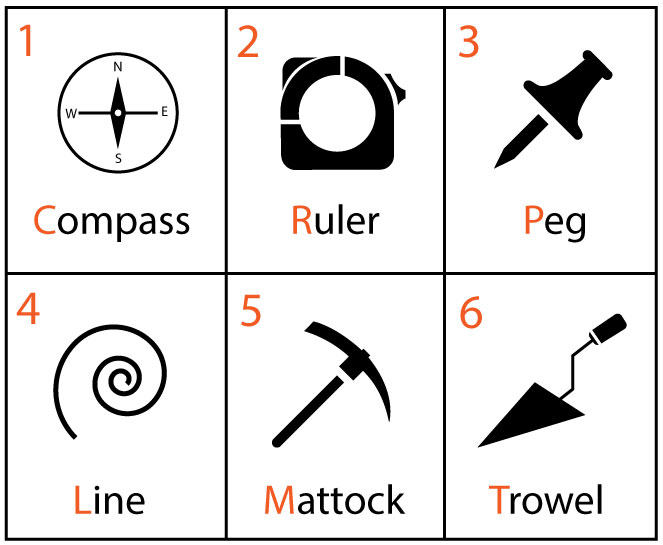
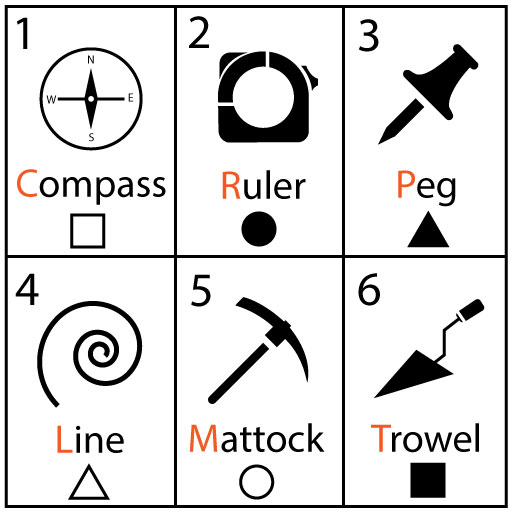
add another password hint

diff --git a/Finding-AVA/index.html b/Finding-AVA/index.html
@@ -31,6 +31,7 @@
       <img id="sky" src="image/sky.jpg">
       <img id="passwordhint" src="image/passwordhint.jpg">
       <img id="dighint" src="image/dighint.jpg">
+      <img id="lockback" src="image/letterlockback.jpg">
       <img id="skeleton" src="image/skeleton.jpg">
       <img id="bodyframe" src="image/body.jpg">
       <img id="bodyfinish" src="image/bodyfinish.jpg">
@@ -254,7 +255,7 @@
       <a-plane id="helpinfo1" color="#333" height="1.2" width="1" position="0 2.7 -0.5" metalness="0.5" visible="false">
         <a-text value="Help Information" color="orange" width="1.37" font="dejavu" position="-0.43 0.5 0"></a-text>
         <a-text value="This level will teach you about the tools and process of archaeological excavation. You need to use the information on the notebook pages to unlock the tool box. These are hidden beneath the tent." color="#FFF" width="0.9" font="dejavu" position="-0.43 0.21 0" wrap-count="34" ></a-text>
-        <a-text value="Pay close attention to the numbers beside the tools. These will help you solve the sequence of the tool box password. They also tell you the order to use the tools. If you don’t follow the order, it won’t work!" color="#FFF" width="0.9" font="dejavu" position="-0.43 -0.2 0" wrap-count="34" ></a-text>
+        <a-text value="Pay close attention to the numbers and little patterns beside the tools. Patterns will help you solve the sequence of the tool box password, numbers will indicate the using order of tools. If you don’t follow the order, it won’t work!" color="#FFF" width="0.9" font="dejavu" position="-0.43 -0.2 0" wrap-count="34" ></a-text>
         <!-- back button -->
         <a-circle radius="0.05" text="value:<; width:1.5; align:center" color="#000" position="0.5 0.49 0.01"
         event-set__1="_event: mouseenter; color:orange"
@@ -297,21 +298,21 @@
       <a-entity id="toolbox-open-model" obj-model="obj: #toolbox-open-obj; mtl: #toolbox-open-mtl" position="-1.88 0.25 -2.18" visible="false"></a-entity>
 
       <!-- alphabet lock on the toolbox -->
-      <a-plane color="#CCC" width="0.2" height="0.15" position="-1.88 0.38 -1.91"></a-plane>
-      <a-plane id="letterlock" color="#CCC" width="0.2" height="0.15" position="-1.88 0.38 -1.91">
-        <a-text id="locktext" color="#000" value="Alphabet Lock" font="dejavu" width="0.3" align="center" position="0 0.06 0"></a-text>
+      <a-plane width="0.2" height="0.2" position="-1.88 0.38 -1.91"></a-plane>
+      <a-plane id="letterlock" color="#CCC" width="0.2" height="0.2" position="-1.88 0.38 -1.9" src="#lockback">
+        <a-text id="locktext" color="#000" value="Alphabet Lock" font="dejavu" width="0.3" align="center" position="0 0.08 0"></a-text>
         <!-- lock digits -->
-        <a-entity id="lockdigits" layout="layout: line; margin: 0.03" position="-0.075 0.01 0.001">
+        <a-entity id="lockdigits" layout="layout: line; margin: 0.03" position="-0.075 0.02 0.001">
           <!-- first digit -->
           <a-plane color="#000" width="0.02" height="0.03">
             <a-entity geometry="primitive: plane; width: 0.02; height: 0.02" position="0 0.025 0.001" material="color:#FFF" text="value:+; color:#555; align:center; width:0.3" letterplus="target:#firstdigit"></a-entity>
-            <a-text id="firstdigit" value="A" font="dejavu" color="#FFF" align="center" width="0.3"></a-text>
+            <a-text id="firstdigit" value="N" font="dejavu" color="#FFF" align="center" width="0.3"></a-text>
             <a-entity geometry="primitive: plane; width: 0.02; height: 0.02" position="0 -0.025 0.001" material="color:#FFF" text="value:-; color:#555; align:center; width:0.3" letterminus="target:#firstdigit"></a-entity>
           </a-plane>
           <!-- second digit -->
           <a-plane color="#000" width="0.02" height="0.03">
             <a-entity geometry="primitive: plane; width: 0.02; height: 0.02" position="0 0.025 0.001" material="color:#FFF" text="value:+; color:#555; align:center; width:0.3" letterplus="target:#seconddigit"></a-entity>
-            <a-text id="seconddigit" value="T" font="dejavu" color="#FFF" align="center" width="0.3"></a-text>
+            <a-text id="seconddigit" value="Y" font="dejavu" color="#FFF" align="center" width="0.3"></a-text>
             <a-entity geometry="primitive: plane; width: 0.02; height: 0.02" position="0 -0.025 0.001" material="color:#FFF" text="value:-; color:#555; align:center; width:0.3" letterminus="target:#seconddigit"></a-entity>
           </a-plane>
           <!-- third digit -->
@@ -323,7 +324,7 @@
           <!-- fourth digit -->
           <a-plane color="#000" width="0.02" height="0.03">
             <a-entity geometry="primitive: plane; width: 0.02; height: 0.02" position="0 0.025 0.001" material="color:#FFF" text="value:+; color:#555; align:center; width:0.3" letterplus="target:#fourthdigit"></a-entity>
-            <a-text id="fourthdigit" value="M" font="dejavu" color="#FFF" align="center" width="0.3"></a-text>
+            <a-text id="fourthdigit" value="A" font="dejavu" color="#FFF" align="center" width="0.3"></a-text>
             <a-entity geometry="primitive: plane; width: 0.02; height: 0.02" position="0 -0.025 0.001" material="color:#FFF" text="value:-; color:#555; align:center; width:0.3" letterminus="target:#fourthdigit"></a-entity>
           </a-plane>
           <!-- fifth digit -->
@@ -335,12 +336,12 @@
           <!-- sixth digit -->
           <a-plane color="#000" width="0.02" height="0.03">
             <a-entity geometry="primitive: plane; width: 0.02; height: 0.02" position="0 0.025 0.001" material="color:#FFF" text="value:+; color:#555; align:center; width:0.3" letterplus="target:#sixthdigit"></a-entity>
-            <a-text id="sixthdigit" value="Y" font="dejavu" color="#FFF" align="center" width="0.3"></a-text>
+            <a-text id="sixthdigit" value="R" font="dejavu" color="#FFF" align="center" width="0.3"></a-text>
             <a-entity geometry="primitive: plane; width: 0.02; height: 0.02" position="0 -0.025 0.001" material="color:#FFF" text="value:-; color:#555; align:center; width:0.3" letterminus="target:#sixthdigit"></a-entity>
           </a-plane>
         </a-entity>
         <!-- open lock button -->
-        <a-plane id="openlock" color="#555" width="0.08" height="0.03" position="0 -0.05 0.001"
+        <a-plane id="openlock" color="#555" width="0.08" height="0.03" position="0 -0.07 0.001"
         text="value:OPEN; color:#FFF; width:0.3; font:dejavu; align:center" 
         event-set__1="_event: mouseenter; text.color:orange" 
         event-set__2="_event: mouseleave; text.color:#FFF" openlock>
@@ -351,11 +352,11 @@
       <a-box id="notebook-model" color="#362F19" width="0.3" height="0.05" depth="0.5" position="-2.3 0.025 -1.55">
       </a-box>
       <a-text color="#FFF" value="NOTEBOOK" font="dejavu" width="0.8" align="center" position="-2.3 0.06 -1.64" rotation="-90 0 0"></a-text>
-      <a-plane src="#passwordhint" width="0.35" height="0.25" position="-2 0.01 -1.5" shader="flat" rotation="-90 60 0" scale="1 1 1" scalesomething="scaleto:4 4 4;positionto:0 2.5 -0.75; pinposition:-2.7 2.5 -1.2; pinrotation:0 60 0" clickable="target:#hint1light">
-        <a-light id="hint1light" type="point" intensity="0.8" decay="0.8" distance="0.6" position="0 0 0.3" visible="false"></a-light>
+      <a-plane src="#passwordhint" width="0.35" height="0.35" position="-2 0.01 -1.5" shader="flat" rotation="-90 60 0" scale="1 1 1" scalesomething="scaleto:4 4 4;positionto:0 2.5 -0.75; pinposition:-2.7 2.5 -1.2; pinrotation:0 60 0" clickable="target:#hint1light">
+        <a-light id="hint1light" type="point" intensity="1" decay="0.8" distance="0.6" position="0 0 0.3" visible="false"></a-light>
       </a-plane>
-      <a-plane src="#dighint" width="0.35" height="0.25" position="-1.6 0.01 -1.5" shader="flat" rotation="-90 -75 0" scale="1 1 1" scalesomething="scaleto:4 4 4;positionto:0 2.5 -0.75; pinposition:2.7 2.5 -1.2; pinrotation:0 -60 0" clickable="target:#hint2light">
-        <a-light id="hint2light" type="point" intensity="0.8" decay="0.8" distance="0.6" position="0 0 0.3" visible="false"></a-light>
+      <a-plane src="#dighint" width="0.35" height="0.35" position="-1.6 0.01 -1.5" shader="flat" rotation="-90 -75 0" scale="1 1 1" scalesomething="scaleto:4 4 4;positionto:0 2.5 -0.75; pinposition:2.7 2.5 -1.2; pinrotation:0 -60 0" clickable="target:#hint2light">
+        <a-light id="hint2light" type="point" intensity="1" decay="0.8" distance="0.6" position="0 0 0.3" visible="false"></a-light>
       </a-plane>
 
       <!-- flag -->

diff --git a/Finding-AVA/scripts/componentsnolog.js b/Finding-AVA/scripts/componentsnolog.js
@@ -388,7 +388,7 @@ AFRAME.registerComponent('openlock', {
       var digit4 = document.getElementById("fourthdigit").getAttribute("value");
       var digit5 = document.getElementById("fifthdigit").getAttribute("value");
       var digit6 = document.getElementById("sixthdigit").getAttribute("value");
-      if(digit1=="C" && digit2=="R" && digit3=="P" && digit4=="L" && digit5=="M" && digit6=="T")
+      if(digit1=="L" && digit2=="R" && digit3=="M" && digit4=="C" && digit5=="P" && digit6=="T")
       {
         document.getElementById("letterlock").setAttribute("visible","false");
         document.getElementById("toolbox-model").setAttribute("visible","false");
@@ -457,7 +457,7 @@ AFRAME.registerComponent('usetool', {
       else{
         var camera = document.querySelector("a-camera");
         var errormsg = document.createElement("a-text");
-        errormsg.setAttribute("value","Wrong Tool!");
+        errormsg.setAttribute("value","Wrong tool! Mind the using order!");
         errormsg.setAttribute("color","#000");
         errormsg.setAttribute("width","2");
         errormsg.setAttribute("position","0.1 0 -1.5");
